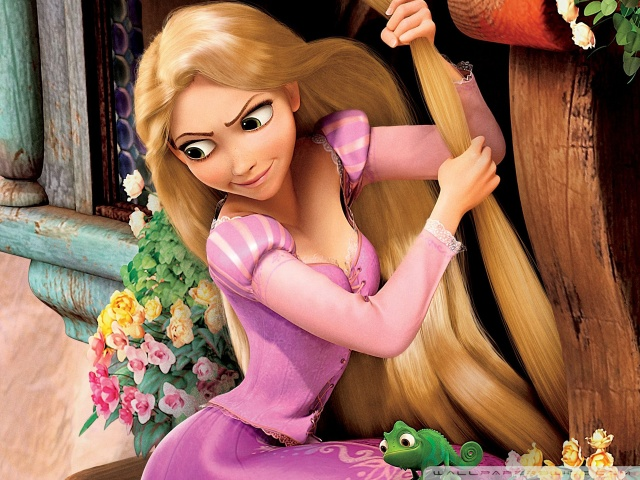
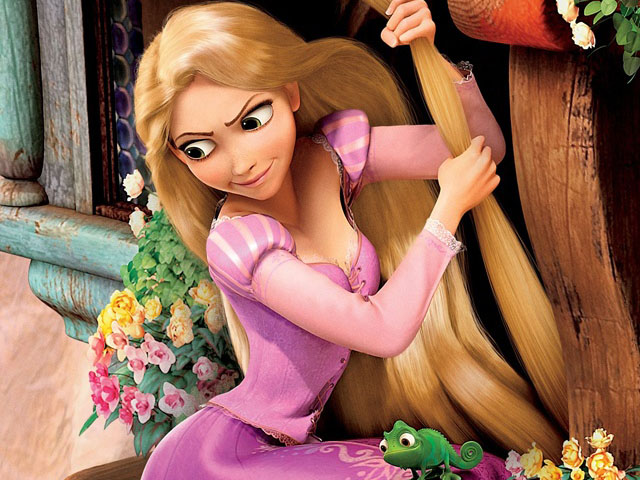
cut sizes of assets by converting to jpg
made splash screen the correct size
puzzle10 now doesn't have the watermark

diff --git a/index.html b/index.html
@@ -5,14 +5,14 @@
     <meta name="apple-mobile-web-app-capable" content="yes" />
 
     <meta name="apple-mobile-web-app-status-bar-style" content="black" />
-    <link rel="apple-touch-icon" href="assets/puzzled-icon-cut.png"/>
-    <link rel="apple-touch-startup-image" href="splash-screen.png" />
+    <link rel="apple-touch-icon" href="assets/puzzled-icon-cut.jpg"/>
+    <link rel="apple-touch-startup-image" href="assets/splash-screen.jpg" />
 	<title>Puzzled</title>
 	
 	<meta http-equiv="X-UA-Compatible" content="IE=edge" />	<!-- try to make IE9 not run in compatibility mode -->
 </head>
 <body>
-<img src="assets/puzzled-bg.png" style="position: absolute; top: 0px; left: 0px;">
+<img src="assets/puzzled-bg.jpg" style="position: absolute; top: 0px; left: 0px;">
 <canvas id="PuzzleCanvas" width="640" height="480" onmousemove="mouseMove(event);" onmousedown="mouseClick(event);" onmouseup="mouseRelease(event);" style="position: absolute; top: 120px; left: 510px;" onmouseout="mouseRelease(event);"></canvas>
 <img id="easy-button" src="assets/easy-idle.png" style="position: absolute; top: 352px; left: 115px;" onclick="startGame(3, 3, 'easy-text.png');" onmouseover="changeButton(event, 'easy-hover.png');" onmouseOut="changeButton(event, 'easy-idle.png');" onmousedown="changeButton(event, 'easy-grab.png')" onmouseup="changeButton(event, 'easy-hover.png');">
 <img id="hard-button" src="assets/hard-idle.png" style="position: absolute; top: 454px; left: 115px;" onclick="startGame(4, 4, 'hard-text.png');" onmouseover="changeButton(event, 'hard-hover.png');" onmouseOut="changeButton(event, 'hard-idle.png');" onmousedown="changeButton(event, 'hard-grab.png')" onmouseup="changeButton(event, 'hard-hover.png');"">
@@ -30,6 +30,7 @@ Problems
 * fix for more mobile phones
 * rotation on iphone
 * on iPhone, picker is cut off on bottom
+* splash screen is skewed, and we should add splash screens for more ios types (ipad, iphone 5...)
 -->
 
 <script type="text/javascript">
